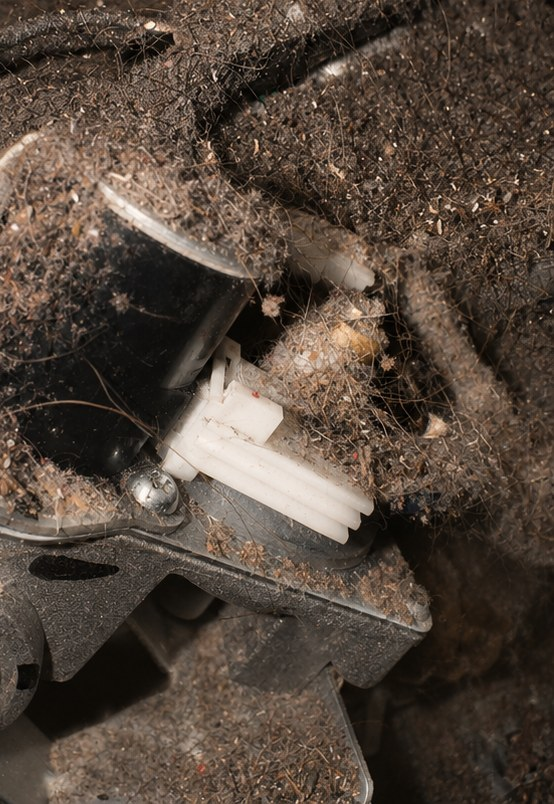
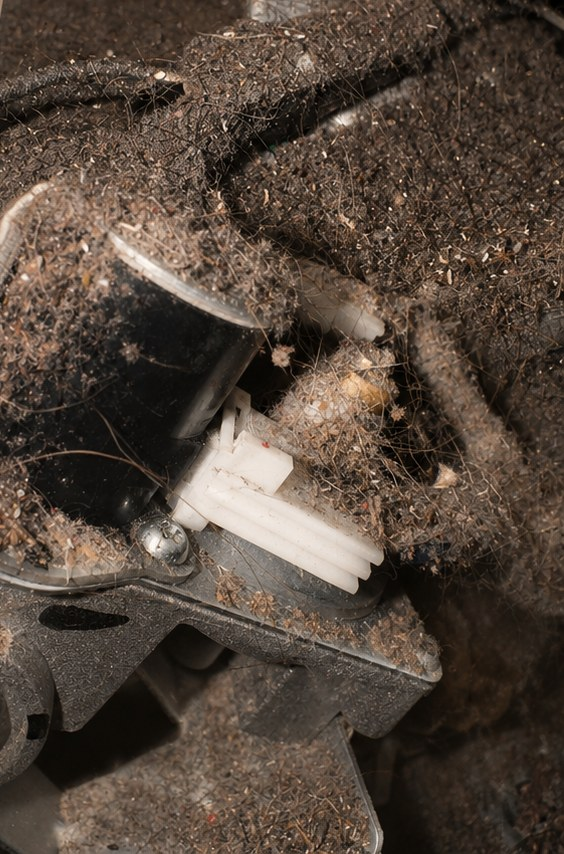
Show the hero photos whole instead of filling the panel with them
Cover-filling was the wrong model for these images. The panel is 550x955
and the crops are 460-860px, so filling it scaled them up around 2x and,
for the landscape coil shot, showed a third of the scene — the photo read
as a heavy zoom into a detail.

The photo now sits inside the panel with espresso around it, contained
rather than cropped: the whole scene is visible, the image is displayed
smaller than its source rather than larger, and it renders sharp. The
caption gets its own band underneath instead of a scrim over the picture.

Crops widened to match, taking as much of each scene as the creative's
typography allows. The dryer crop was measured against the actual
diagonal in the source (x = 754 - 0.172y) rather than estimated — the
previous boundary would have pulled in cream and the palm shadow.

Same treatment on mobile, with insets tuned for the shorter band.

diff --git a/src/components/sections/HeroSlider.tsx b/src/components/sections/HeroSlider.tsx
@@ -11,6 +11,14 @@ interface HeroSliderProps {
   slides: HeroSlide[];
   /** Marks the copy of the slider that is decorative on this breakpoint. */
   priority?: boolean;
+  /**
+   * 'cover' fills the parent, cropping to fit — right for the wide mobile
+   * band. 'contain' sits the whole photo inside the parent with a margin of
+   * espresso around it, which is what the tall desktop panel needs: filling
+   * it would blow a small crop up to twice its size and show a fraction of
+   * the scene.
+   */
+  fit?: 'cover' | 'contain';
 }
 
 /**
@@ -19,7 +27,7 @@ interface HeroSliderProps {
  * and a plain band on mobile — so this component only handles the images,
  * the caption and the advance behaviour.
  */
-export function HeroSlider({ slides, priority = false }: HeroSliderProps) {
+export function HeroSlider({ slides, priority = false, fit = 'cover' }: HeroSliderProps) {
   const [index, setIndex] = useState(0);
   const [paused, setPaused] = useState(false);
   const [reducedMotion, setReducedMotion] = useState(false);
@@ -51,6 +59,12 @@ export function HeroSlider({ slides, priority = false }: HeroSliderProps) {
   if (slides.length === 0) return null;
 
   const active = slides[index];
+  const isContained = fit === 'contain';
+
+  // Contained photos are inset to leave the caption its own band underneath.
+  const frameClass = isContained
+    ? 'absolute top-[6%] bottom-[28%] left-[8%] right-[8%] lg:top-[10%] lg:bottom-[30%] lg:left-[22%] lg:right-[8%]'
+    : 'absolute inset-0';
 
   return (
     <div
@@ -65,7 +79,7 @@ export function HeroSlider({ slides, priority = false }: HeroSliderProps) {
       {slides.map((slide, i) => (
         <div
           key={slide.src}
-          className={`absolute inset-0 transition-opacity duration-700 ease-out ${
+          className={`${frameClass} transition-opacity duration-700 ease-out ${
             i === index ? 'opacity-100' : 'opacity-0'
           }`}
           aria-hidden={i !== index}
@@ -74,15 +88,15 @@ export function HeroSlider({ slides, priority = false }: HeroSliderProps) {
             src={slide.src}
             alt={slide.alt}
             fill
-            sizes="(min-width: 1024px) 40vw, 100vw"
-            className="object-cover"
+            sizes="(min-width: 1024px) 32vw, 100vw"
+            className={isContained ? 'object-contain object-center' : 'object-cover'}
             priority={priority && i === 0}
           />
         </div>
       ))}
 
       {/* Scrim keeps the caption readable over a bright photo */}
-      {(active.location || active.caption) && (
+      {!isContained && (active.location || active.caption) && (
         <div
           aria-hidden="true"
           className="absolute inset-x-0 bottom-0 h-2/3 bg-gradient-to-t from-ink/85 via-ink/40 to-transparent"
@@ -91,7 +105,13 @@ export function HeroSlider({ slides, priority = false }: HeroSliderProps) {
 
       {/* Caption, in the same language as the brand creatives */}
       {(active.location || active.caption) && (
-        <div className="absolute inset-x-0 bottom-0 p-6 lg:p-8 lg:pl-16">
+        <div
+          className={
+            isContained
+              ? 'absolute inset-x-0 bottom-[6%] px-[8%] lg:bottom-[10%] lg:pl-[22%] lg:pr-[8%]'
+              : 'absolute inset-x-0 bottom-0 p-6 lg:p-8 lg:pl-16'
+          }
+        >
           {active.location && (
             <div className="flex items-center gap-2 mb-3 text-cream/80">
               <MapPin className="h-3.5 w-3.5 shrink-0" strokeWidth={2} />
@@ -101,7 +121,7 @@ export function HeroSlider({ slides, priority = false }: HeroSliderProps) {
             </div>
           )}
           {active.caption && (
-            <p className="font-heading text-sm lg:text-base font-bold uppercase tracking-tight text-cream max-w-xs leading-snug">
+            <p className="font-heading text-sm lg:text-base font-bold uppercase tracking-tight text-cream max-w-[22ch] leading-snug">
               {active.caption}
             </p>
           )}
@@ -110,7 +130,7 @@ export function HeroSlider({ slides, priority = false }: HeroSliderProps) {
 
       {/* A bright photo swallows the hairline indicators, so they get their
           own scrim the same way the caption does. */}
-      {slides.length > 1 && (
+      {!isContained && slides.length > 1 && (
         <div
           aria-hidden="true"
           className="absolute inset-x-0 top-0 h-24 bg-gradient-to-b from-ink/45 to-transparent"

diff --git a/src/components/sections/Hero.tsx b/src/components/sections/Hero.tsx
@@ -23,7 +23,7 @@ export function Hero() {
         aria-hidden={!hasPhotos}
         className="hidden lg:block absolute inset-y-0 right-0 w-[38%] bg-primary-800 diagonal-cut"
       >
-        {hasPhotos && <HeroSlider slides={heroSlides} priority />}
+        {hasPhotos && <HeroSlider slides={heroSlides} priority fit="contain" />}
       </div>
 
       <div className="relative container mx-auto px-4 py-20 lg:py-28">
@@ -90,7 +90,7 @@ export function Hero() {
               full-bleed under the hero copy instead of disappearing. */}
           {hasPhotos && (
             <div className="lg:hidden relative -mx-4 mt-12 aspect-[4/5] bg-primary-800">
-              <HeroSlider slides={heroSlides} />
+              <HeroSlider slides={heroSlides} fit="contain" />
             </div>
           )}
 
